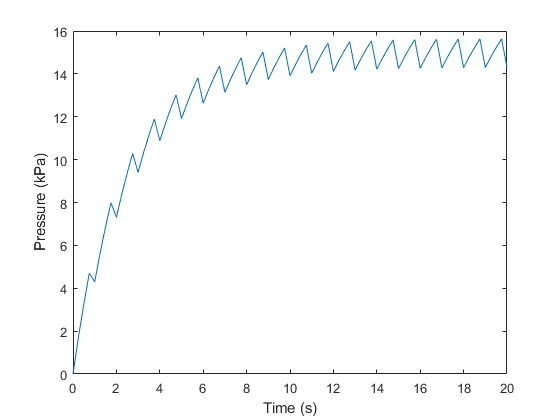
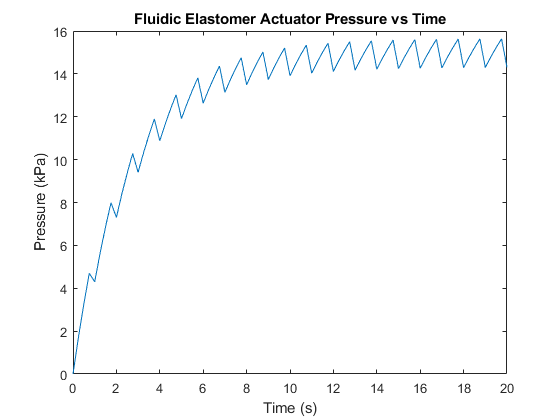
Complete problem_1c

Changed region(s): [[0.2429, 0.031, 0.8196, 0.0619]]

diff --git a/UCSD/MAE_249/hw1/problem_1b.m b/UCSD/MAE_249/hw1/problem_1b.m
@@ -1,10 +1,12 @@
 clear all; clc; clf
 
+%% Problem 1b
+
 t = linspace(0, 20, 81);
 
-P_in = 20;
-R = 1.4e6;
-C = 2.5 / (1.25 * 1000 * 1000);
+P_in = 20; % kPa
+R = 1.4e6; % 1 / (m * s)
+C = 2.5 / (1.25 * 1000 * 1000); % m * s^2
 
 P = length(zeros(1,81));
 
@@ -17,6 +19,26 @@ for i = 2:81
     end
 end
 
+figure(1)
 plot(t, P);
+title("Fluidic Elastomer Actuator Pressure vs Time");
 xlabel("Time (s)");
 ylabel("Pressure (kPa)");
+
+%% Problem 1c
+h_c = 1.4;
+h_b = 1.6;
+L_channel = 1.2;
+N_channel = 7;
+L = 11.6;
+E = 0.8 * 1000; % kPa
+
+eps_A = (P / E) * (h_c / (h_b - h_c));
+theta = 2 * N_channel * atan(L_channel * eps_A / h_c);
+tip_displacement = L ./ theta .* (1 - cos(theta));
+
+figure(2)
+plot(t, tip_displacement);
+title("Fluidic Elastomer Actuator Tip Displacement vs Time");
+xlabel("Time (s)");
+ylabel("Tip Displacement (cm)");
